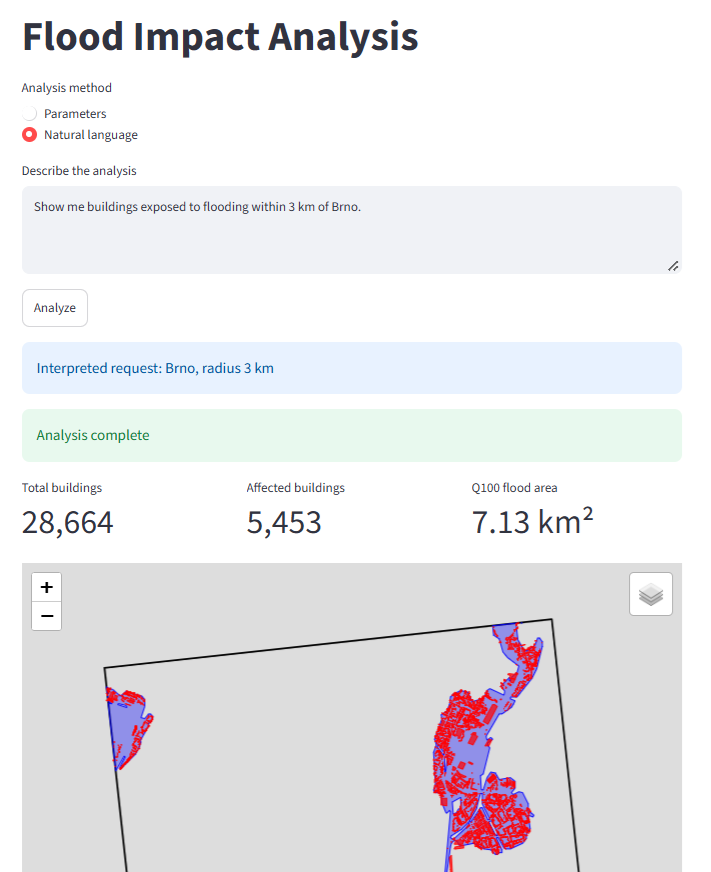
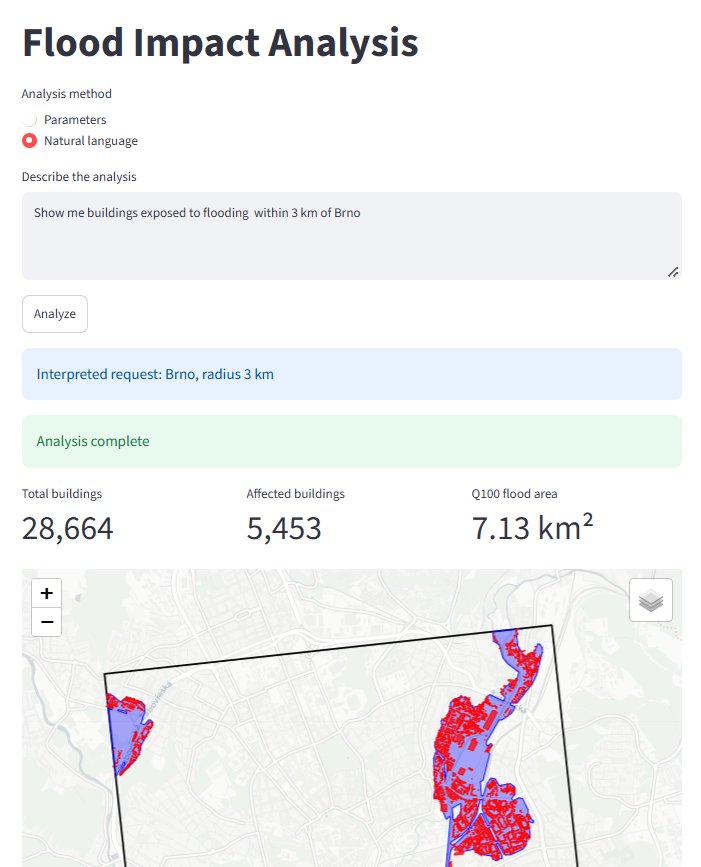
CARTO basemap added and map documentation updated

diff --git a/src/flimpanal_map.py b/src/flimpanal_map.py
@@ -1,22 +1,9 @@
+import os
+from pathlib import Path
+from dotenv import load_dotenv
+
 import geopandas as gpd
 import folium
-
-"""
-def create_map(lat: float, lon: float) -> folium.Map:
-    return folium.Map(
-        location=[lat, lon],
-        zoom_start=13
-    )
-"""
-
-"""
-def create_map(lat: float, lon: float) -> folium.Map:
-    return folium.Map(
-        location=[lat, lon],
-        zoom_start=13,
-        tiles="CartoDB positron"
-    )
-"""
 
 
 def create_map(
@@ -27,11 +14,47 @@ def create_map(
     affected_buildings: gpd.GeoDataFrame
 ) -> folium.Map:
 
+    project_root = Path(__file__).resolve().parent.parent
+    env_path = project_root / ".env"
+
+    load_dotenv(dotenv_path=env_path)
+
+    carto_api_key = os.getenv("CARTO_BASEMAP_API_KEY")
+
+    #if not carto_api_key:
+    #    raise RuntimeError("CARTO basemap API key is not configured.")
+
+    #carto_tiles = (
+    #    "https://basemaps.cartocdn.com/rastertiles/"
+    #    "light_all/{z}/{x}/{y}.png"
+    #    f"?key={carto_api_key}"
+    #)
+
     map = folium.Map(
         location=[lat, lon],
         zoom_start=13,
         tiles=None
     )
+
+    #folium.TileLayer(
+        #    tiles=carto_tiles,
+        #    attr="© OpenStreetMap contributors © CARTO",
+        #    name="CARTO Positron",
+        #).add_to(map)
+
+    if carto_api_key:
+        carto_tiles = (
+            "https://basemaps.cartocdn.com/rastertiles/"
+            "light_all/{z}/{x}/{y}.png"
+            f"?key={carto_api_key}"
+        )
+
+        folium.TileLayer(
+            tiles=carto_tiles,
+            attr="© OpenStreetMap contributors © CARTO",
+            name="CARTO Positron",
+        ).add_to(map)
+
 
     analysis_area_4326 = gpd.GeoSeries(
         [analysis_area],
@@ -95,41 +118,6 @@ def create_map(
                 ),
         ).add_to(map)
         
-    #affected_buildings_map = affected_buildings.copy()
-
-    #affected_buildings_map["building_area_m2"] = (affected_buildings_map["building_area_m2"].round(1))
-    #affected_buildings_map["flooded_area_m2"] = (affected_buildings_map["flooded_area_m2"].round(1))
-    #affected_buildings_map["flooded_pct"] = (affected_buildings_map["flooded_pct"].round(1))
-
-    #affected_buildings_4326 = affected_buildings.to_crs("EPSG:4326")
-    #affected_buildings_4326 = affected_buildings_map.to_crs("EPSG:4326")
-      
-    #if not affected_buildings_4326.empty:
-    #    folium.GeoJson(
-    #        affected_buildings_4326,
-    #        name="Affected buildings",
-    #        style_function=lambda feature: {
-    #            "color": "red",
-    #            "weight": 1,
-    #            "fillColor": "red",
-    #            "fillOpacity": 0.7,
-    #        },
-    #        tooltip=folium.GeoJsonTooltip(
-    #            fields=[
-    #                "building_area_m2",
-    #                "flooded_area_m2",
-    #                "flooded_pct",
-    #            ],
-    #            aliases=[
-    #                "Building area (m²):",
-    #                "Flooded area (m²):",
-    #                "Flooded (%):",
-    #            ],
-    #            localize=True,
-    #            sticky=False,
-    #        ),
-    #    ).add_to(map)
-
     min_lon, min_lat, max_lon, max_lat = analysis_area_4326.bounds
 
     map.fit_bounds([

diff --git a/tests/test_flimpanal_map.py b/tests/test_flimpanal_map.py
@@ -3,6 +3,17 @@ import folium
 from shapely.geometry import box
 
 import src.flimpanal_map as flimpanal_map
+import pytest
+
+
+@pytest.fixture(autouse=True)
+def carto_api_key(monkeypatch):
+    monkeypatch.setenv(
+        "CARTO_BASEMAP_API_KEY",
+        "test-carto-api-key"
+    )
+
+
 
 
 def test_create_map_with_no_flood_zones():
@@ -68,4 +79,84 @@ def test_create_map_with_flood_zone_and_no_affected_buildings():
 
 
 
-        
+#def test_create_map_includes_carto_basemap(monkeypatch):
+def test_create_map_includes_carto_basemap():
+    #monkeypatch.setenv(
+    #    "CARTO_BASEMAP_API_KEY",
+    #    "test-carto-api-key"
+    #)
+
+    analysis_area = box(0, 0, 100, 100)
+
+    flood_zones = gpd.GeoDataFrame(
+        geometry=[],
+        crs="EPSG:5514"
+    )
+
+    affected_buildings = gpd.GeoDataFrame(
+        {
+            "building_area_m2": [],
+            "flooded_area_m2": [],
+            "flooded_pct": [],
+        },
+        geometry=[],
+        crs="EPSG:5514"
+    )
+
+    result = flimpanal_map.create_map(
+        lat=50.0,
+        lon=14.0,
+        analysis_area=analysis_area,
+        flood_zones=flood_zones,
+        affected_buildings=affected_buildings,
+    )
+
+    html = result.get_root().render()
+
+    assert "CARTO Positron" in html
+    assert "test-carto-api-key" in html    
+
+
+
+def test_create_map_without_carto_key(monkeypatch):
+    monkeypatch.delenv(
+        "CARTO_BASEMAP_API_KEY",
+        raising=False
+    )
+    monkeypatch.setattr(
+        flimpanal_map,
+        "load_dotenv",
+        lambda **kwargs: None
+    )
+
+    analysis_area = box(0, 0, 100, 100)
+
+    flood_zones = gpd.GeoDataFrame(
+        geometry=[],
+        crs="EPSG:5514"
+    )
+
+    affected_buildings = gpd.GeoDataFrame(
+        {
+            "building_area_m2": [],
+            "flooded_area_m2": [],
+            "flooded_pct": [],
+        },
+        geometry=[],
+        crs="EPSG:5514"
+    )
+
+    result = flimpanal_map.create_map(
+        lat=50.0,
+        lon=14.0,
+        analysis_area=analysis_area,
+        flood_zones=flood_zones,
+        affected_buildings=affected_buildings,
+    )
+
+    html = result.get_root().render()
+
+    assert isinstance(result, folium.Map)
+    assert "CARTO Positron" not in html    
+
+

diff --git a/README.md b/README.md
@@ -81,7 +81,7 @@ Natural-language input is used only to extract a location and analysis radius in
 - **OSMnx / OpenStreetMap** — geospatial data retrieval
 - **GeoPandas / Shapely / pyproj** — geospatial processing
 - **GeoPy** — geocoding and distance utilities
-- **Folium** — interactive map visualization
+- **Folium / CARTO/Positron** — interactive map visualization
 - **OpenAI API** — natural-language request interpretation
 - **Pydantic** — structured request validation
 
@@ -92,6 +92,7 @@ Nominatim                                       → location geocoding
 Natural Earth                                   → Czech Republic coverage validation  
 Výzkumný ústav vodohospodářský (VÚV)            → Q100 flood-zone geometry  
 OpenStreetMap                                   → building footprints  
+CARTO Basemap                                   → basemap tiles providing visual context  
 
 ### OpenAI
 
@@ -99,7 +100,7 @@ Used to interpret natural-language analysis requests and extract structured loca
   
 The extracted values are validated by the application before geospatial processing begins. OpenAI is not used for flood-zone geometry, spatial intersection, exposure calculations, or determination of affected buildings.  
 
-OpenAI Usage Policies:
+OpenAI Usage Policies:  
 https://openai.com/policies/usage-policies/
 
 
@@ -109,29 +110,29 @@ Used for forward geocoding of user-entered locations.
 
 This application uses the public Nominatim service operated by the OpenStreetMap Foundation. Use of the public service is subject to the Nominatim Usage Policy, including an absolute maximum of one request per second and use of an identifying User-Agent.
 
-Nominatim Usage Policy:
+Nominatim Usage Policy:  
 https://operations.osmfoundation.org/policies/nominatim/
 
 
 ### Natural Earth
 
-Used to validate that the complete analysis area lies within the Czech Republic.
+Used to validate that the complete analysis area lies within the Czech Republic.  
 
-The application uses the Natural Earth 1:10m Admin 0 Countries dataset. Natural Earth vector and raster data is in the public domain.
-
-Natural Earth Terms of Use:
+The application uses the Natural Earth 1:10m Admin 0 Countries dataset. Natural Earth vector and raster data is in the public domain.  
+  
+Natural Earth Terms of Use:  
 https://www.naturalearthdata.com/about/terms-of-use/
 
 
 ### OpenStreetMap
 
-Used as the source of building footprints.
+Used as the source of building footprints.  
 
-OpenStreetMap data is licensed under the Open Data Commons Open Database License (ODbL). OpenStreetMap and its contributors must be credited when the data is used.
+OpenStreetMap data is licensed under the Open Data Commons Open Database License (ODbL). OpenStreetMap and its contributors must be credited when the data is used.  
 
-© OpenStreetMap contributors
+© OpenStreetMap contributors  
 
-Copyright and License:
+Copyright and License:  
 https://www.openstreetmap.org/copyright
 
 
@@ -145,8 +146,18 @@ Source: Výzkumný ústav vodohospodářský T. G. Masaryka, v.v.i. (VÚV TGM)
 
 The flood-zone polygons provided by this dataset are orientational. For authoritative information about the exact extent of a flood zone, consult the relevant water authority or watercourse administrator.
 
-Flood-zone metadata:
+Flood-zone metadata:  
 https://heis.vuv.cz/xmicka/record/basic/CZ-VUV-MD-ZaplavUzemi
+
+
+### CARTO Basemap (Positron)
+
+Used as the basemap tile layer for the interactive map, providing geographic context for the analysis results.  
+  
+A CARTO Basemaps API key is required to display the Positron raster basemap. The application can still display analysis results without the basemap if no CARTO API key is configured.  
+  
+CARTO Basemaps API Key:  
+https://www.carto.com/basemaps/apikey  
 
 
 ## Getting Started
@@ -176,12 +187,15 @@ Copy `.env.example` to `.env`:
 
     copy .env.example .env
 
-Then edit `.env` and configure the required environment variables:
+Then edit `.env` and configure the required environment variables:  
 
     NOMINATIM_USER_AGENT_NAME="FloodImpactAnalysis"  
     OPENAI_API_KEY="<YOUR OPENAI API KEY HERE>"  
+    CARTO_BASEMAP_API_KEY="<YOUR CARTO BASEMAP API KEY HERE>"  
 
 An OpenAI API key is required only when using the Natural language analysis method. Parameter-based analysis does not require OpenAI.  
+
+A CARTO API key is optional - if you do not obtain and configure this API key, analysis results will be displayed without a basemap.
 
 The `.env` file is excluded from Git and should not be committed.
 
